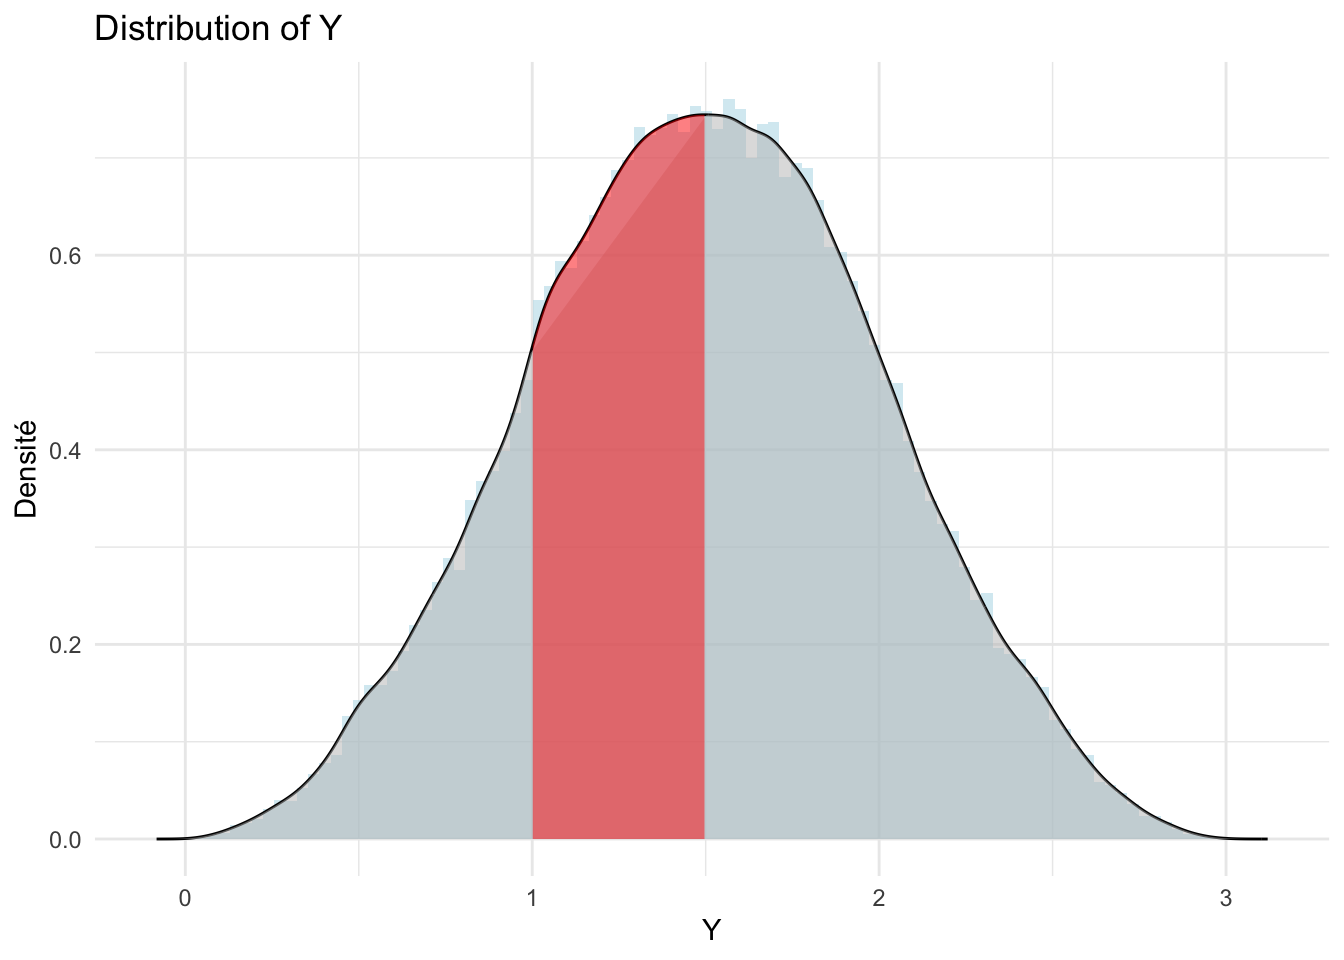
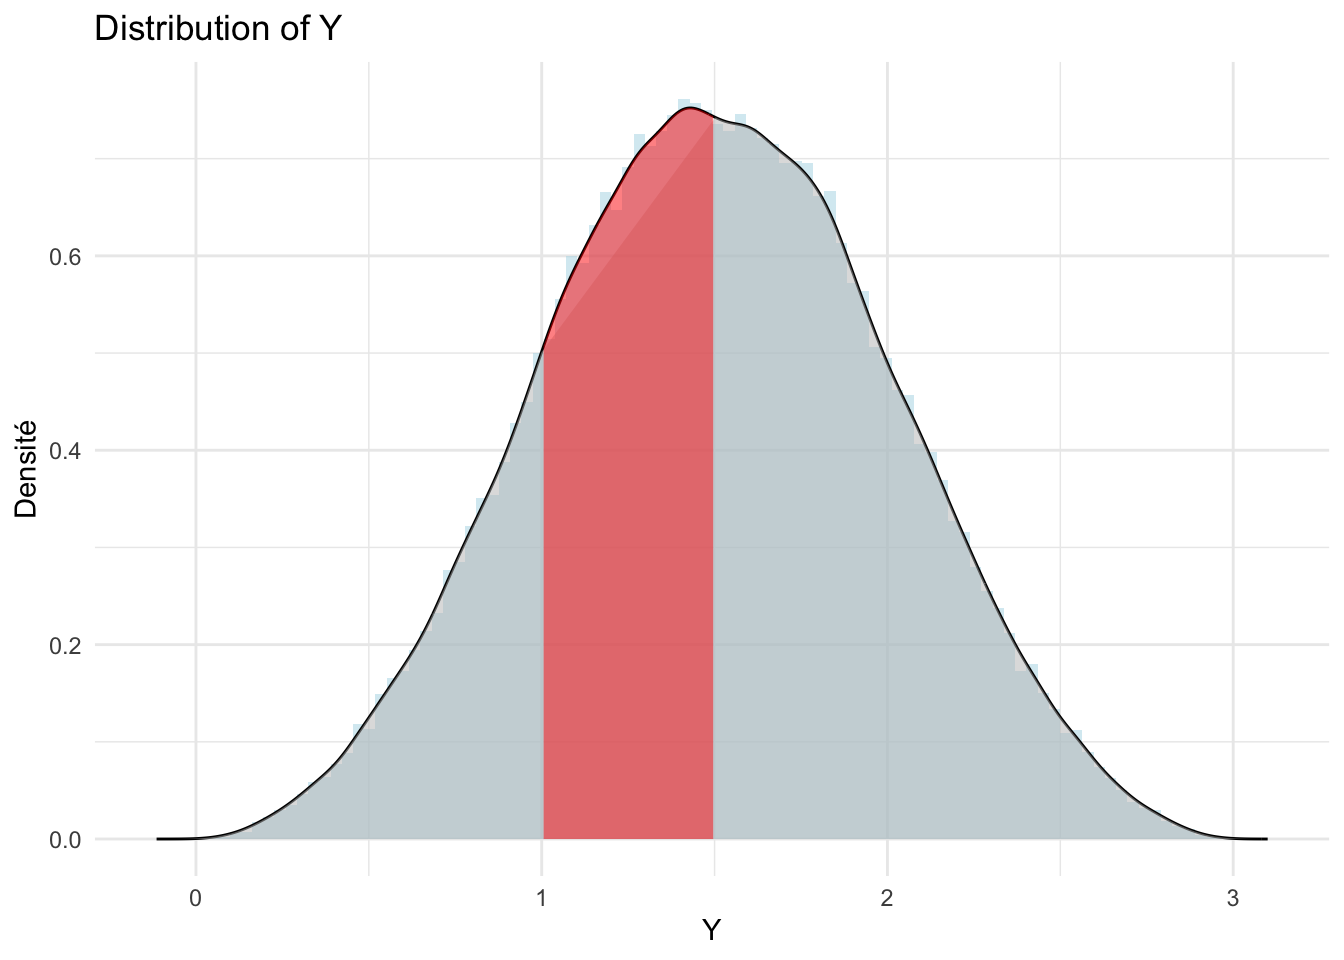
Update site

diff --git a/_site/sessions/session2/session2.html b/_site/sessions/session2/session2.html
@@ -173,7 +173,7 @@ window.Quarto = {
  <span class="dropdown-text">Session 1: Dataset Building and Descriptive Statistics</span></a>
   </li>  
         <li>
-    <a class="dropdown-item" href="../../sessions/session2.qmd">
+    <a class="dropdown-item" href="../../sessions/session2/session2.html">
  <span class="dropdown-text">Session 2: OLS: Simple and Multiple Linear Regressions and Analysis</span></a>
   </li>  
         <li>
@@ -426,16 +426,16 @@ Attaching package: 'dplyr'</code></pre>
 <span id="cb5-7"><a href="#cb5-7" aria-hidden="true" tabindex="-1"></a><span class="fu">head</span>(dat, <span class="dv">10</span>)</span></code><button title="Copy to Clipboard" class="code-copy-button"><i class="bi"></i></button></pre></div>
 <div class="cell-output cell-output-stdout">
 <pre><code>           y
-1  1.9626786
-2  1.7491786
-3  0.8286429
-4  1.7109643
-5  1.1127857
-6  2.5370714
-7  1.0628214
-8  2.2105714
-9  1.5370714
-10 1.5579286</code></pre>
+1  1.1631786
+2  1.9059643
+3  1.0634643
+4  1.2635000
+5  0.3455714
+6  2.3246429
+7  1.1701786
+8  1.2874643
+9  0.9361429
+10 1.9261071</code></pre>
 </div>
 <div class="sourceCode cell-code" id="cb7"><pre class="sourceCode r code-with-copy"><code class="sourceCode r"><span id="cb7-1"><a href="#cb7-1" aria-hidden="true" tabindex="-1"></a><span class="fu">ggplot</span>(dat, <span class="fu">aes</span>(<span class="at">x =</span> y)) <span class="sc">+</span></span>
 <span id="cb7-2"><a href="#cb7-2" aria-hidden="true" tabindex="-1"></a>  <span class="fu">geom_histogram</span>(<span class="fu">aes</span>(<span class="at">y =</span> <span class="fu">after_stat</span>(density)), <span class="at">bins =</span> <span class="dv">100</span>)<span class="sc">+</span></span>
@@ -458,7 +458,7 @@ Attaching package: 'dplyr'</code></pre>
 [1] 1.291
 
 $y
-[1] 0.7072116</code></pre>
+[1] 0.7102107</code></pre>
 </div>
 </div>
 <p>You might ask yourself : what is the probability of obtaining 1.291 ? Of course, this probability would be extremely low : <span class="math inline">\(P_X(x) \rightarrow 0\)</span>. Instead, you would rather consider the probability of having a value falling in a given interval <span class="math inline">\([a,b]\)</span>, for instance <span class="math inline">\([1, 1.5]\)</span>. This probability would be given by: <span class="math display">\[\begin{equation}
@@ -538,11 +538,11 @@ f_N(x) = \mathcal{N}(x; \mu, \sigma) = \frac{1}{\sigma \sqrt{2\pi}} e^{-\frac{1}
 <div class="cell">
 <div class="sourceCode cell-code" id="cb10"><pre class="sourceCode r code-with-copy"><code class="sourceCode r"><span id="cb10-1"><a href="#cb10-1" aria-hidden="true" tabindex="-1"></a><span class="fu">mean</span>(y)</span></code><button title="Copy to Clipboard" class="code-copy-button"><i class="bi"></i></button></pre></div>
 <div class="cell-output cell-output-stdout">
-<pre><code>[1] 1.500843</code></pre>
+<pre><code>[1] 1.502028</code></pre>
 </div>
 <div class="sourceCode cell-code" id="cb12"><pre class="sourceCode r code-with-copy"><code class="sourceCode r"><span id="cb12-1"><a href="#cb12-1" aria-hidden="true" tabindex="-1"></a><span class="fu">sd</span>(y)</span></code><button title="Copy to Clipboard" class="code-copy-button"><i class="bi"></i></button></pre></div>
 <div class="cell-output cell-output-stdout">
-<pre><code>[1] 0.5006925</code></pre>
+<pre><code>[1] 0.4993005</code></pre>
 </div>
 </div>
 <p>which means that the normal distribution is centered in 1.5, and its standard deviation is 0.5 : 68% of the data is located within the interval between 1 and 2.</p>
@@ -1447,7 +1447,7 @@ Z \leq  \frac{2-\mu_Y}{\sigma} = 0.997941
 <span id="cb14-7"><a href="#cb14-7" aria-hidden="true" tabindex="-1"></a>}</span>
 <span id="cb14-8"><a href="#cb14-8" aria-hidden="true" tabindex="-1"></a><span class="fu">print</span>(int) <span class="co"># </span></span></code><button title="Copy to Clipboard" class="code-copy-button"><i class="bi"></i></button></pre></div>
 <div class="cell-output cell-output-stdout">
-<pre><code>[1] 0.9756477</code></pre>
+<pre><code>[1] 0.9758681</code></pre>
 </div>
 </div>
 <p>This gives about 0.97, which is very close to what you had computed from the tables. Note how I am computing this integral : I am just summing over all the values <span class="math inline">\(x \leq 2.5\)</span>, with the very small steps <span class="math inline">\(\delta x = 0.0000001\)</span> and therefore $ x = 0.000005$ , <span class="math inline">\(x = 0.000015\)</span>,<span class="math inline">\(x = 0.000025\)</span>, <span class="math inline">\(x = 0.000035\)</span>,…, <span class="math inline">\(x = 2.500000\)</span> and adding the very small quantities:</p>
@@ -1457,7 +1457,7 @@ Z \leq  \frac{2-\mu_Y}{\sigma} = 0.997941
 <p>As already said, an integral is just a fancy way of writing a sum for continuous variables ! Hence, numerically, a way of computing that integral is just to take a very small step, and simulate the sum ! If you repeat the exact same process for 2 instead of 2.5, you get :</p>
 <div class="cell">
 <div class="cell-output cell-output-stdout">
-<pre><code>[1] 0.839241</code></pre>
+<pre><code>[1] 0.8393868</code></pre>
 </div>
 </div>
 <p>which is also very close to what we had found from the tables.</p>
@@ -2145,7 +2145,7 @@ Y_i = \beta_1 X_{1i} + \beta_2 X_{2i} + \beta_3 X_{3i} + \beta_4 X_{1i}*X_{3i}
 </section>
 <section id="model-performance" class="level1">
 <h1>Model performance</h1>
-<p><strong>This section is directly inspired from the last section of your class of last semester</strong> ## Diagnostics After fitting our model, it is essential to perform diagnostic checks to evaluate whether the model is correctly specified and whether the assumptions underlying regression analysis are being met. In this context, we use the performance package to assess various aspects of these assumptions and examine model quality.</p>
+<p>After fitting our model, it is essential to perform diagnostic checks to evaluate whether the model is correctly specified and whether the assumptions underlying regression analysis are being met. In this context, we use the performance package to assess various aspects of these assumptions and examine model quality.</p>
 <div class="cell">
 <div class="sourceCode cell-code" id="cb51"><pre class="sourceCode r code-with-copy"><code class="sourceCode r"><span id="cb51-1"><a href="#cb51-1" aria-hidden="true" tabindex="-1"></a><span class="fu">library</span>(performance)</span></code><button title="Copy to Clipboard" class="code-copy-button"><i class="bi"></i></button></pre></div>
 </div>
